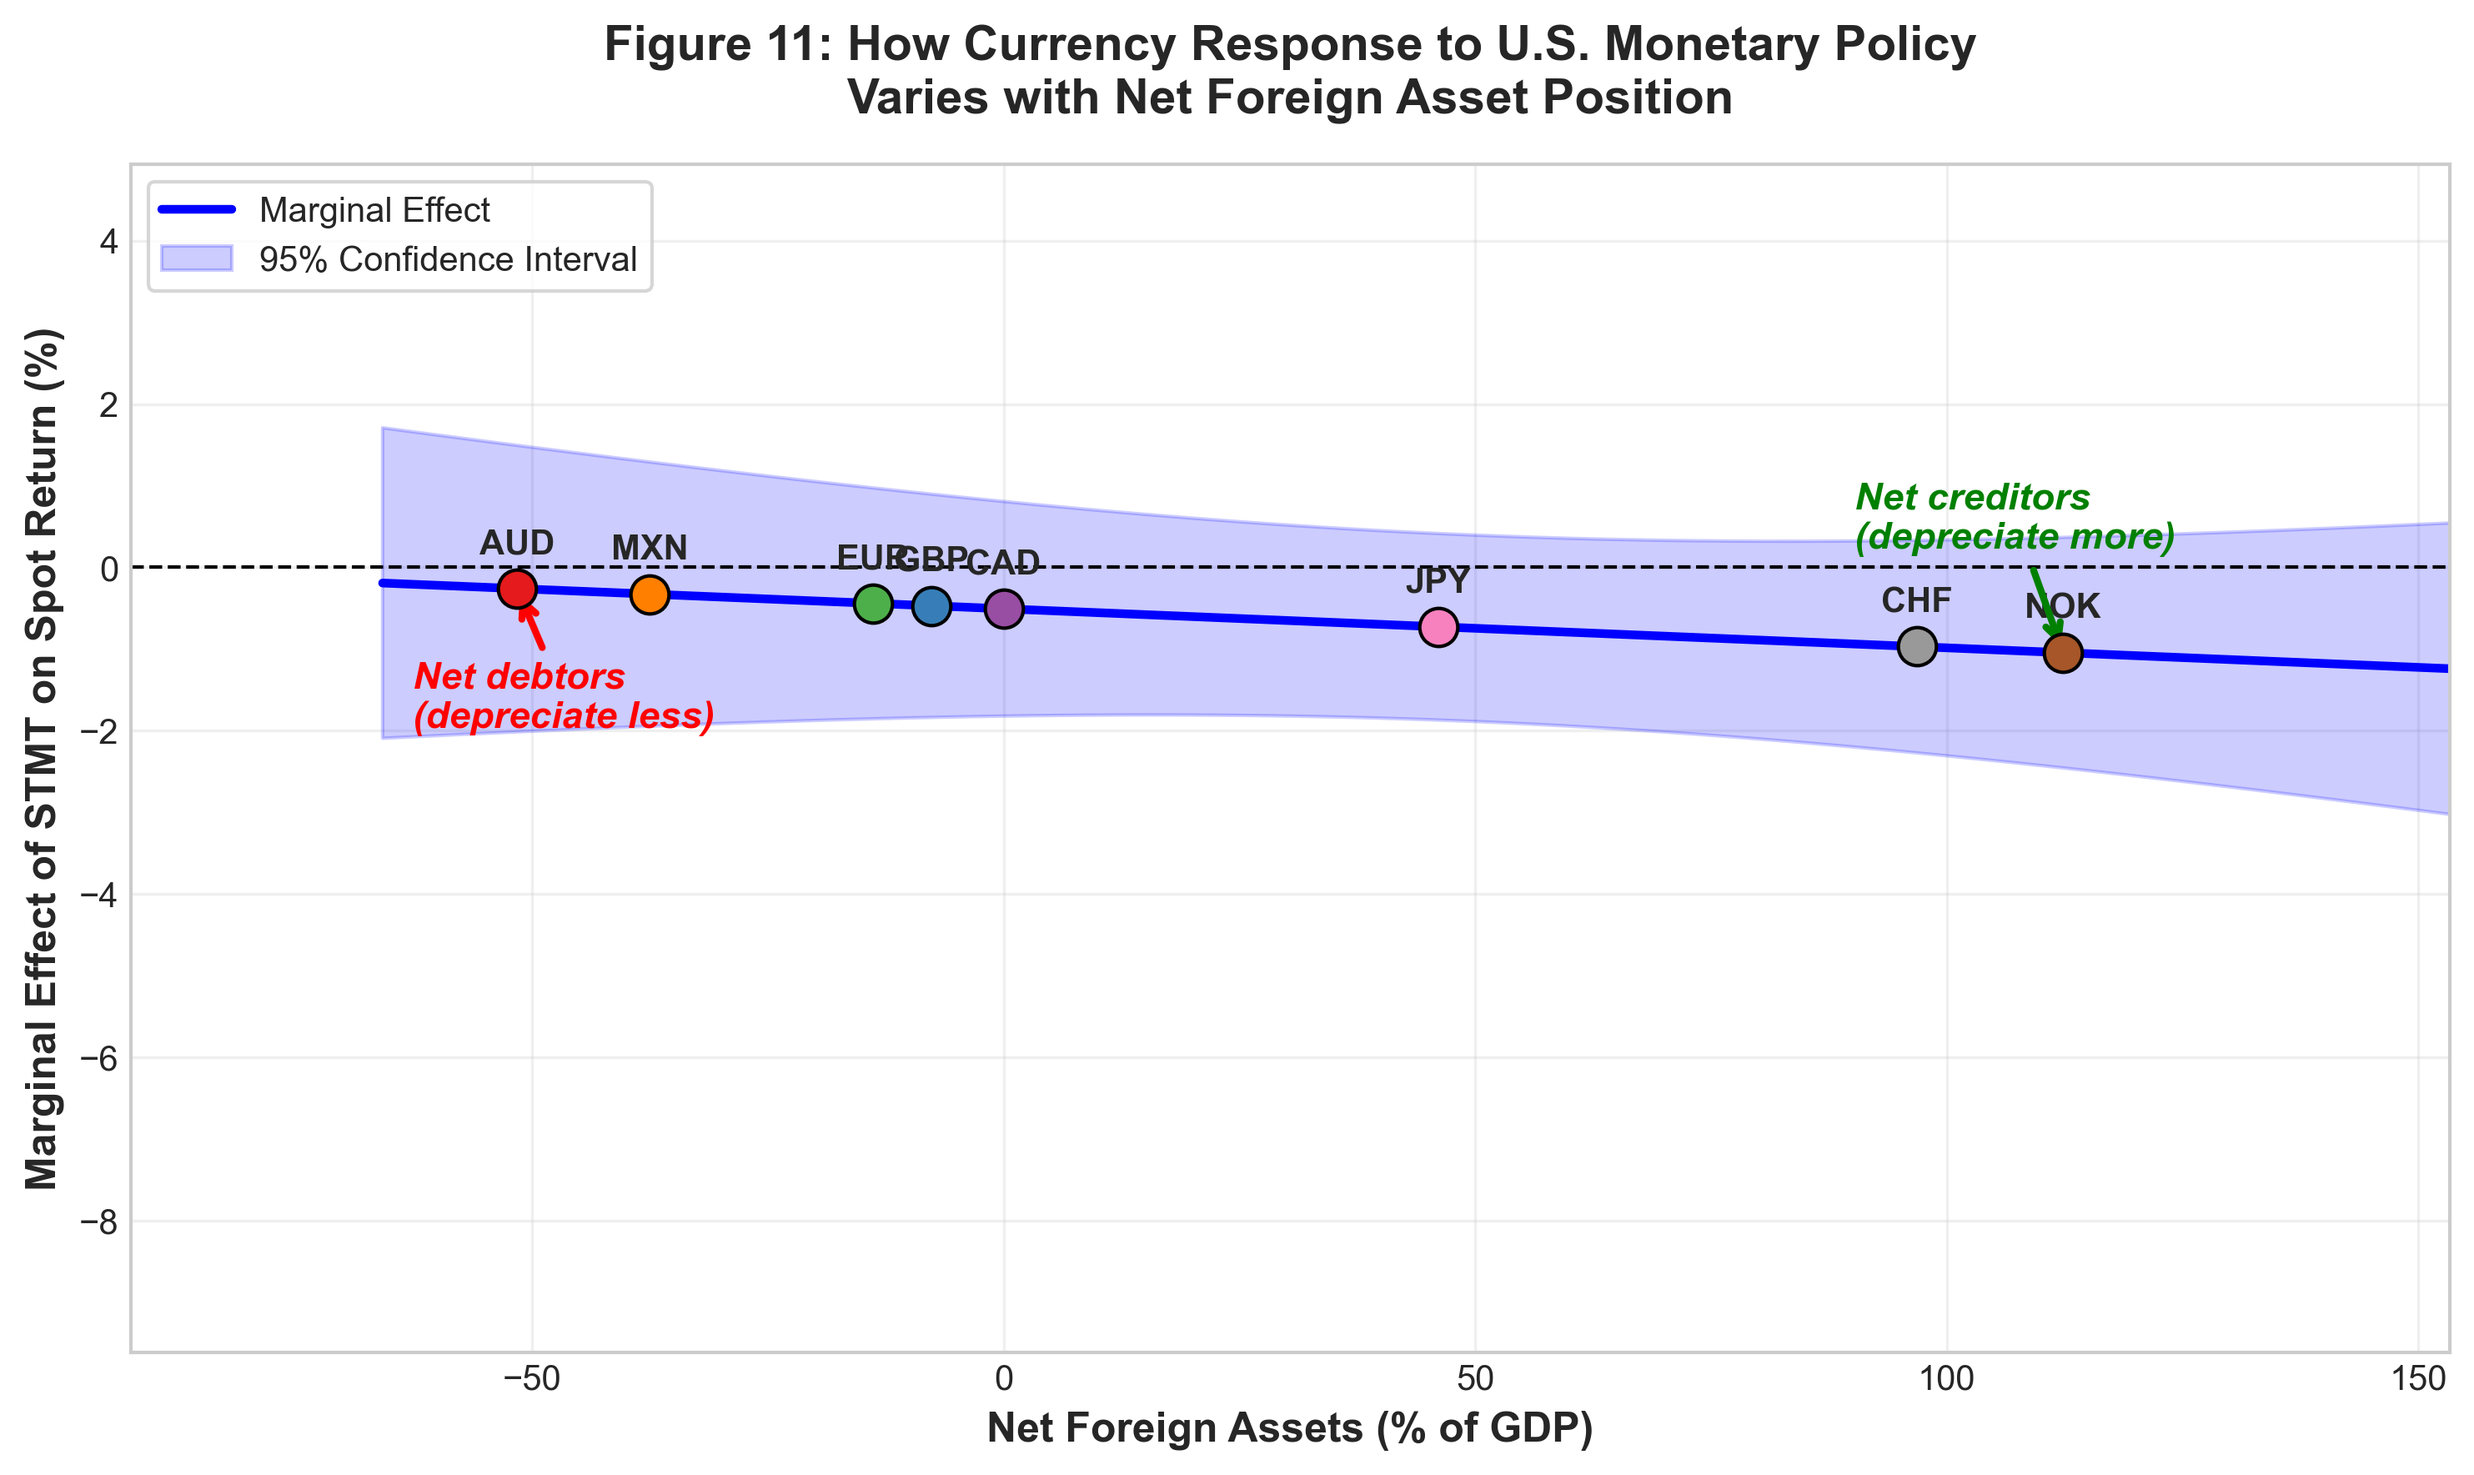
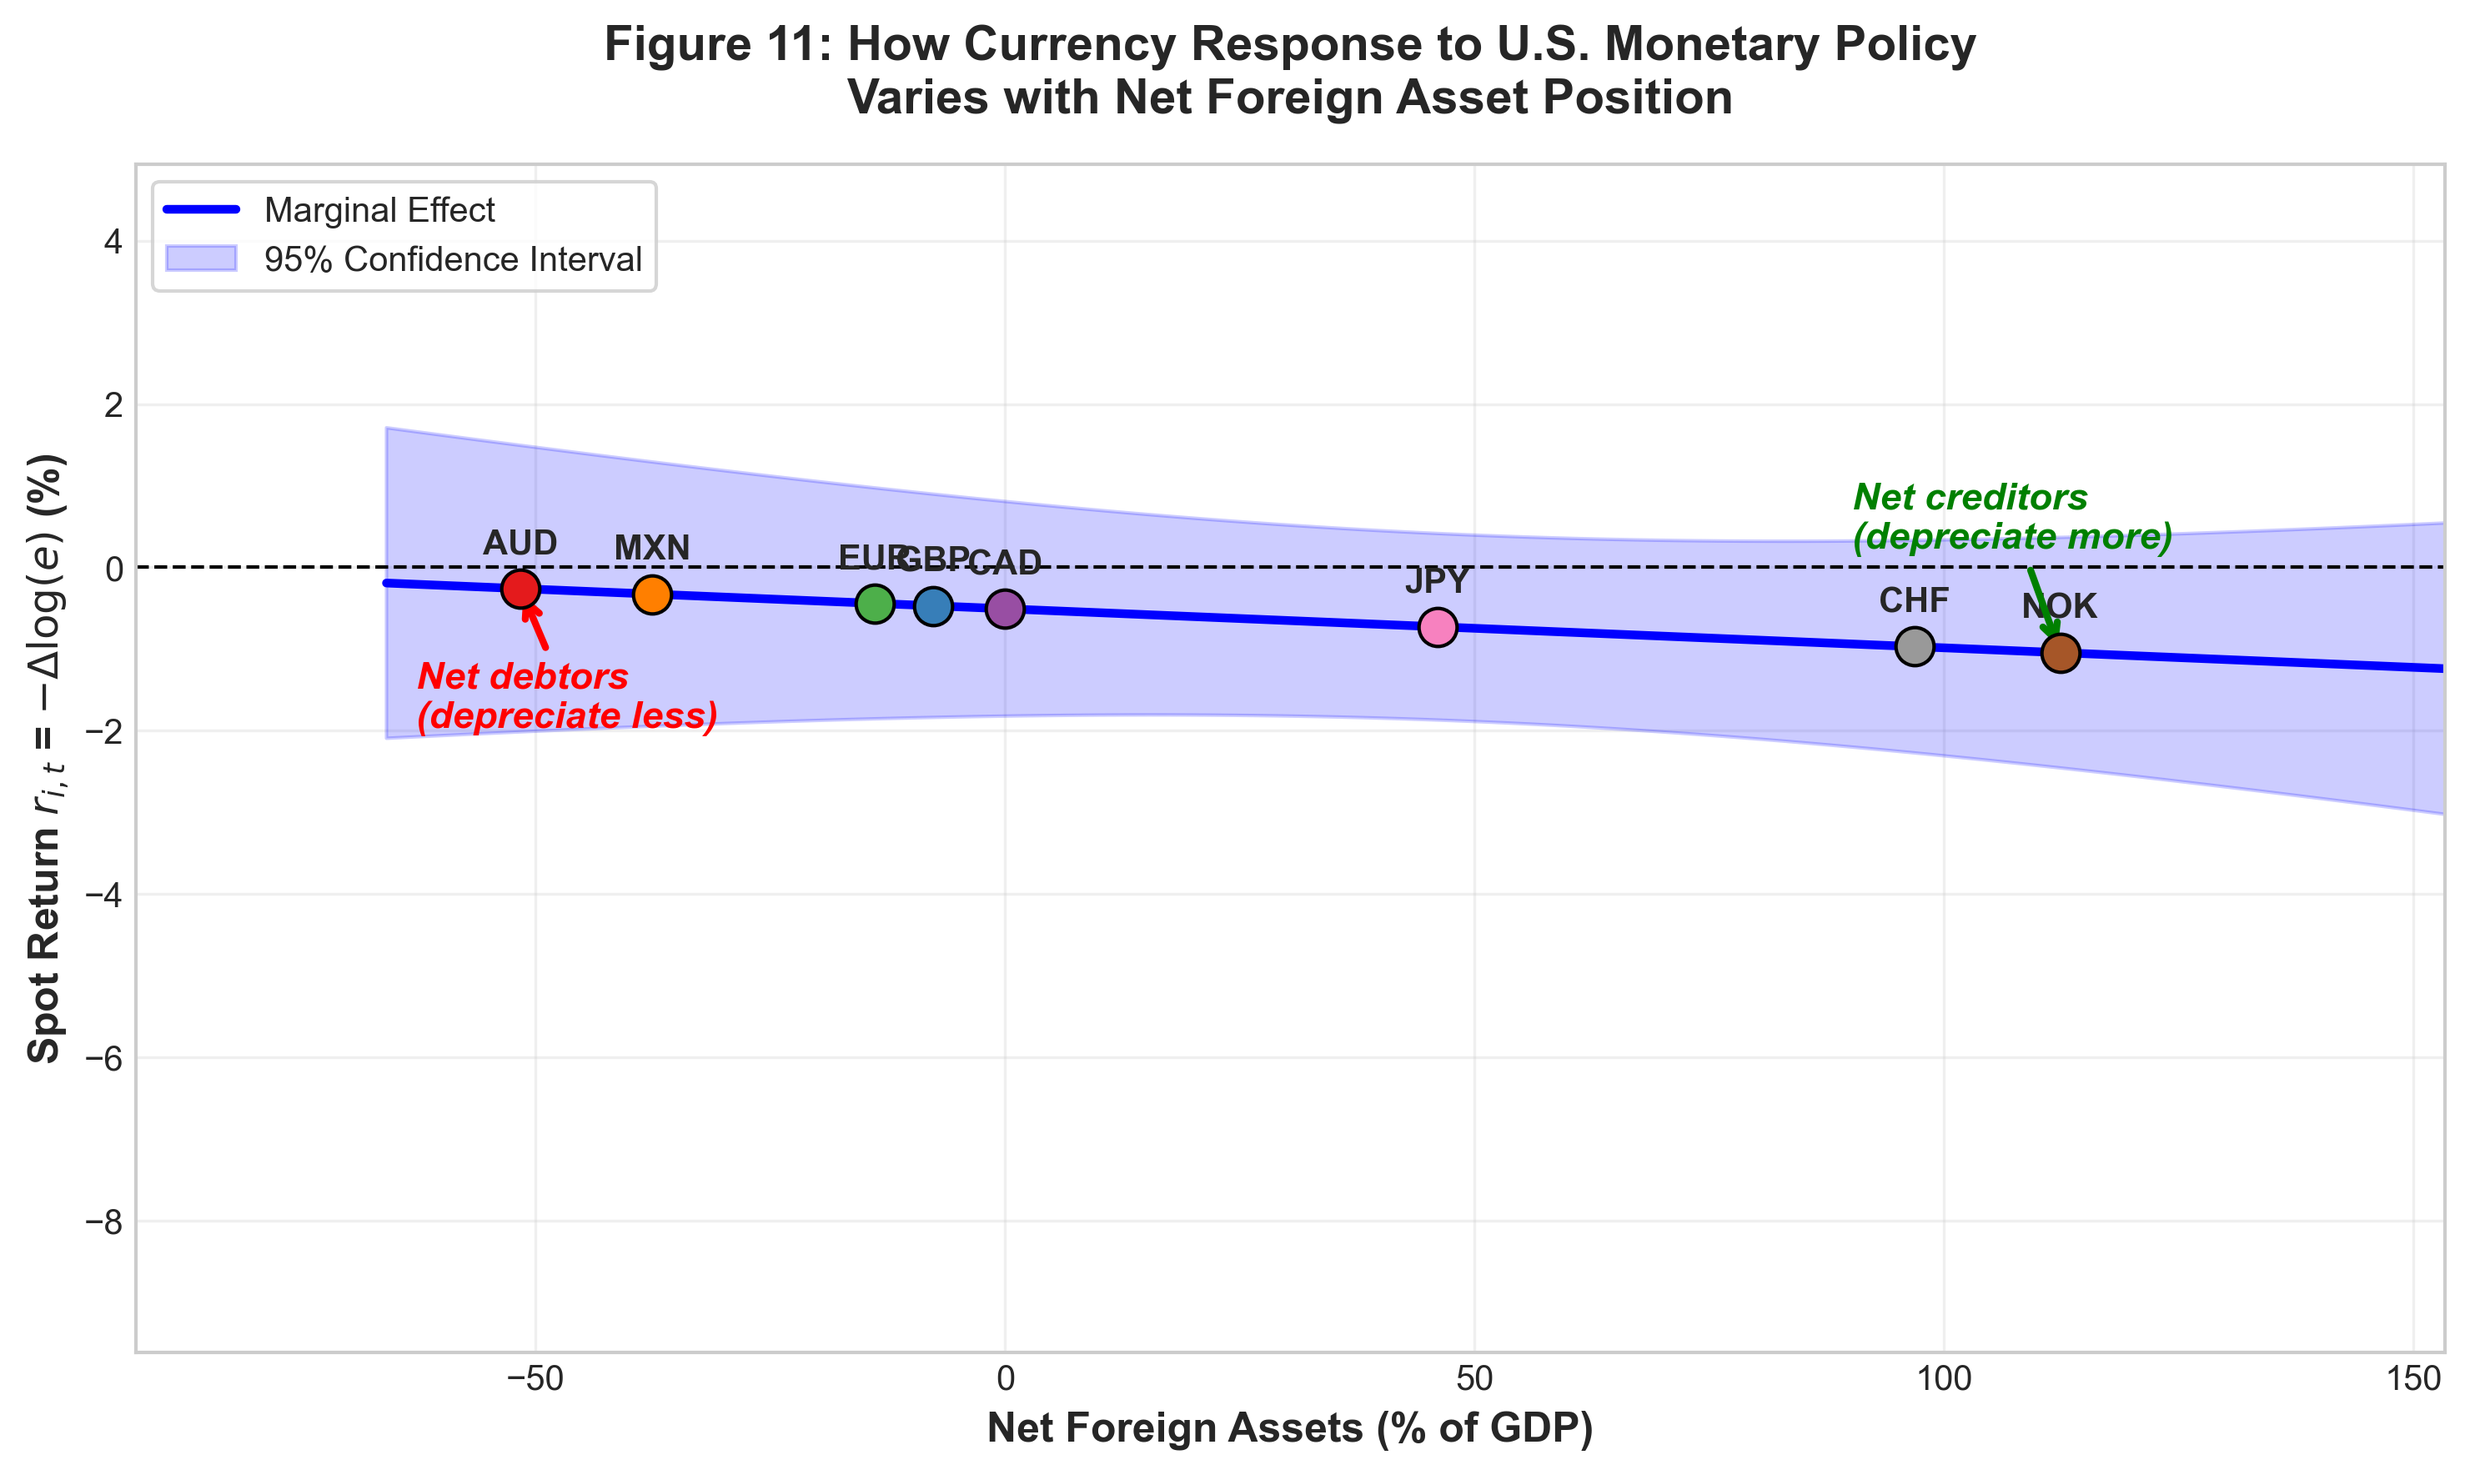
Polish convention definition: explicit e_{i,t} definition, doctoral phrasing

diff --git a/task3_panel_regression.py b/task3_panel_regression.py
@@ -660,7 +660,7 @@ for curr in nfa_avg.index:
                     xytext=(0, 10), textcoords='offset points')
 
 ax.set_xlabel('Net Foreign Assets (% of GDP)', fontsize=12, fontweight='bold')
-ax.set_ylabel('Marginal Effect of STMT on Spot Return (%)', fontsize=12, fontweight='bold')
+ax.set_ylabel('Spot Return $r_{i,t}$ = $-\Delta\log(e)$ (%)', fontsize=12, fontweight='bold')
 ax.set_title('Figure 11: How Currency Response to U.S. Monetary Policy\n'
              'Varies with Net Foreign Asset Position',
              fontsize=14, fontweight='bold', pad=15)
@@ -830,10 +830,11 @@ latex += r"""\hline\hline
 \end{tabular}
 \begin{tablenotes}
 \small
-\item \textit{Notes:} The dependent variable is the spot return $r_{i,t} = -\Delta\log(e_{i,t})$,
-where $e$ is the foreign-per-USD exchange rate. Positive $r$ denotes foreign currency
-appreciation. This convention matches Antol\'{i}n-D\'{i}az et al.\ (2023), so that
-$\beta_2 > 0$ means creditor countries depreciate less. STMT is the statement surprise;
+\item \textit{Notes:} I define $e_{i,t}$ as foreign currency units per USD
+(e.g., JPY/USD). The dependent variable is the spot return
+$r_{i,t} = -\Delta\log(e_{i,t})$, so $r > 0$ indicates foreign appreciation
+(USD depreciation). This convention matches Antol\'{i}n-D\'{i}az et al.\ (2023),
+so that $\beta_2 > 0$ means creditor countries depreciate less. STMT is the statement surprise;
 MP1 is the target rate surprise, both in basis points. NFA/GDP is from Lane \&
 Milesi-Ferretti (EWN, 2024 update), lagged one year and demeaned so $\beta_1$
 represents the effect at average NFA.
@@ -948,15 +949,15 @@ INTERPRETATION & DISCUSSION
 ══════════════════════════════════════════════════════════════════════════════════
 
   EXCHANGE RATE CONVENTION:
-    Dependent variable: spot return r_{{i,t}} = -Δlog(e_{{i,t}})
-    where e = foreign per USD. Positive r = foreign appreciation.
-    This matches Antolín-Díaz et al. (2023).
-    β₁ < 0 expected: hawkish surprise → foreign depreciation.
-    β₂ > 0 predicted: creditors depreciate LESS (Antolín-Díaz).
+    I define e_{{i,t}} as foreign currency units per USD (e.g., JPY/USD).
+    The dependent variable is the spot return r_{{i,t}} = -Δlog(e_{{i,t}}),
+    so r > 0 indicates foreign appreciation (USD depreciation).
+    This matches the convention in Antolín-Díaz et al. (2023).
 
-  The interaction coefficient β₂ = {b2:.6f} is {'positive, directionally' if b2 > 0 else 'negative,'}
-  {'consistent with' if b2 > 0 else 'opposite to'} the balance-sheet hypothesis of Antolín-Díaz
-  et al. (2023), but {sig_label} under date-clustered inference
+  The balance-sheet hypothesis predicts β₂ > 0: net creditor currencies
+  should depreciate less (their r falls by less) after a U.S. tightening
+  shock. In my sample, β̂₂ = {b2:.6f}, {'directionally consistent' if b2 > 0 else 'implying the opposite pattern'},
+  though the estimate is imprecise under date-clustered inference
   (p = {pval_main:.3f}).
 
   A 10bp hawkish surprise predicts a {abs(resp_debtor):.4f}% {'depreciation' if resp_debtor < 0 else 'appreciation'}

diff --git a/Output/table3_nfa_panel.tex b/Output/table3_nfa_panel.tex
@@ -26,10 +26,11 @@ $R^2$ & 0.0014 & 0.0014 & 0.0014 & 0.0059 \\
 \end{tabular}
 \begin{tablenotes}
 \small
-\item \textit{Notes:} The dependent variable is the spot return $r_{i,t} = -\Delta\log(e_{i,t})$,
-where $e$ is the foreign-per-USD exchange rate. Positive $r$ denotes foreign currency
-appreciation. This convention matches Antol\'{i}n-D\'{i}az et al.\ (2023), so that
-$\beta_2 > 0$ means creditor countries depreciate less. STMT is the statement surprise;
+\item \textit{Notes:} I define $e_{i,t}$ as foreign currency units per USD
+(e.g., JPY/USD). The dependent variable is the spot return
+$r_{i,t} = -\Delta\log(e_{i,t})$, so $r > 0$ indicates foreign appreciation
+(USD depreciation). This convention matches Antol\'{i}n-D\'{i}az et al.\ (2023),
+so that $\beta_2 > 0$ means creditor countries depreciate less. STMT is the statement surprise;
 MP1 is the target rate surprise, both in basis points. NFA/GDP is from Lane \&
 Milesi-Ferretti (EWN, 2024 update), lagged one year and demeaned so $\beta_1$
 represents the effect at average NFA.
